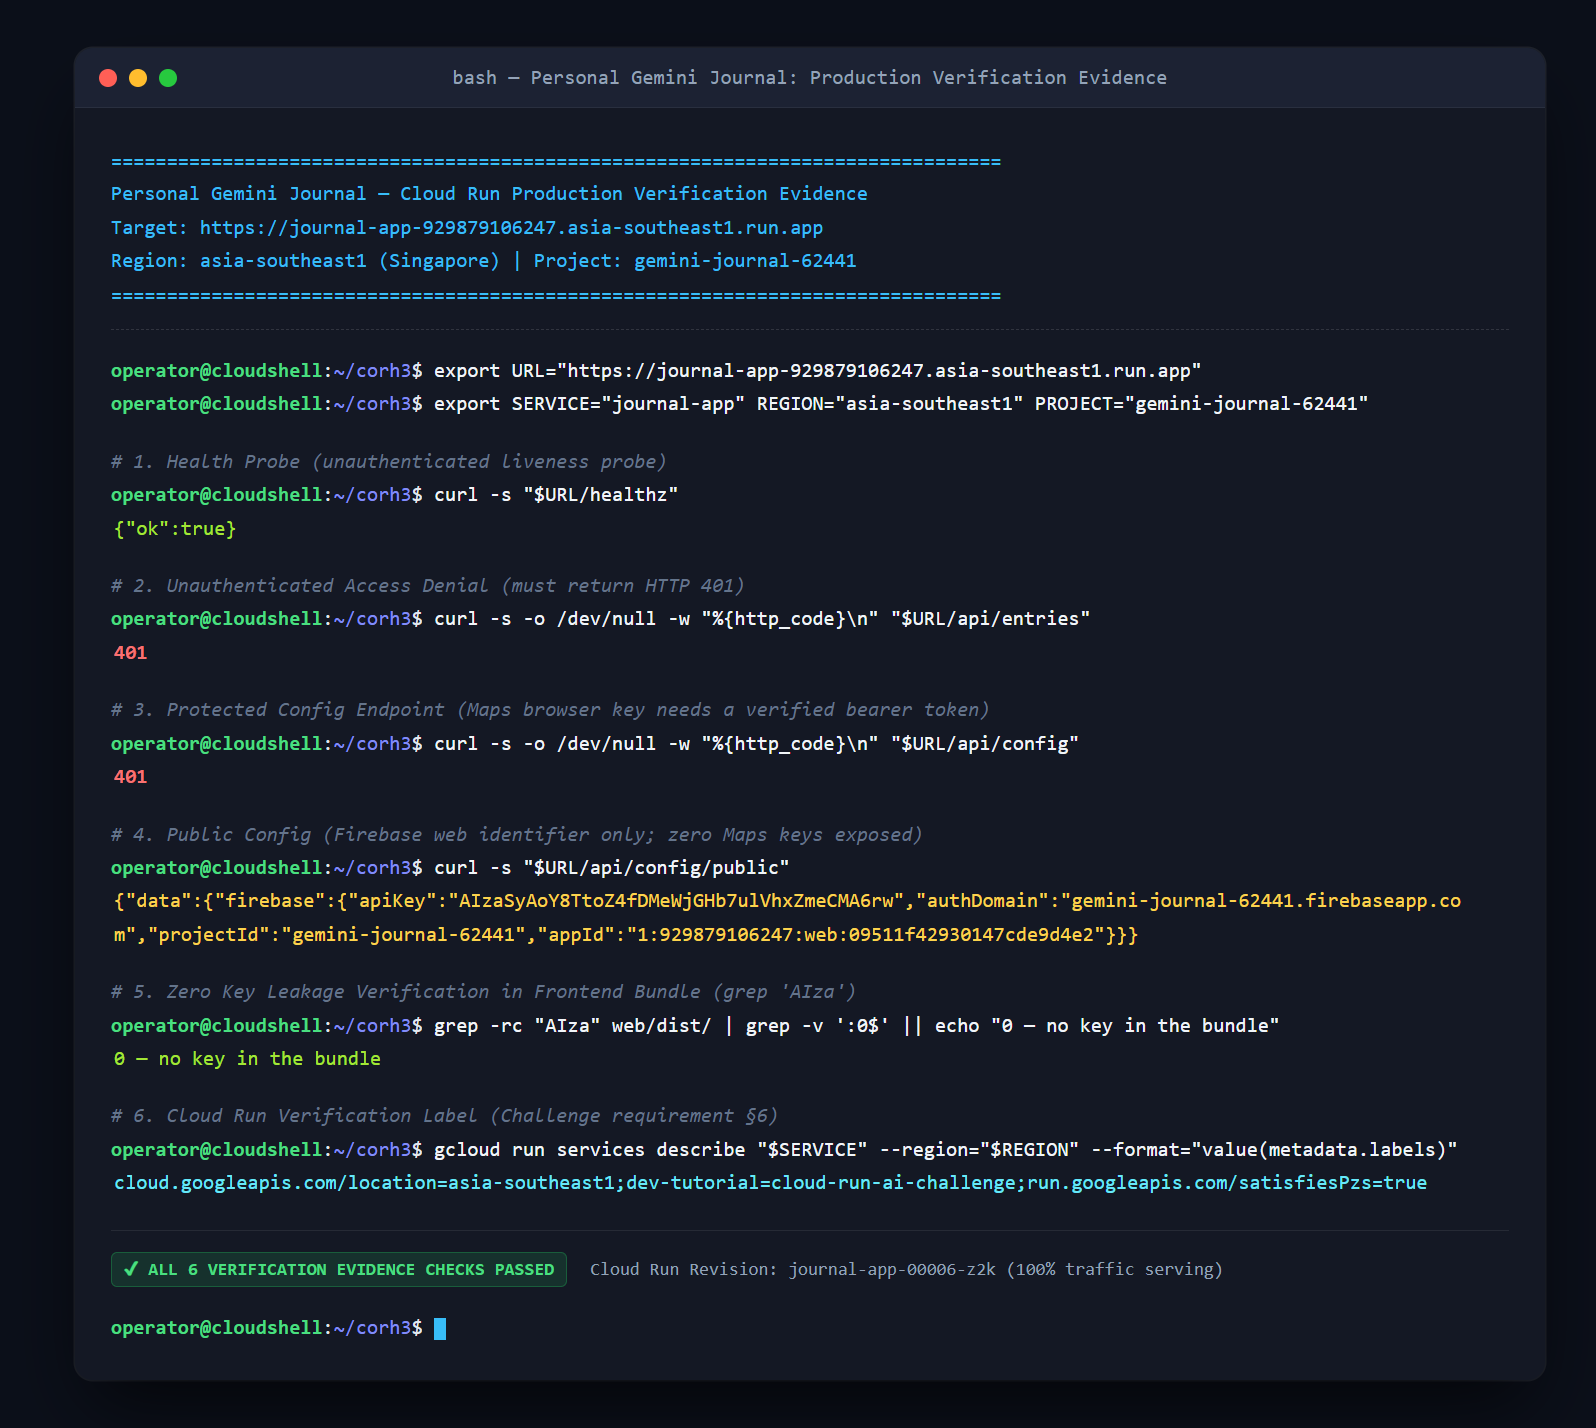
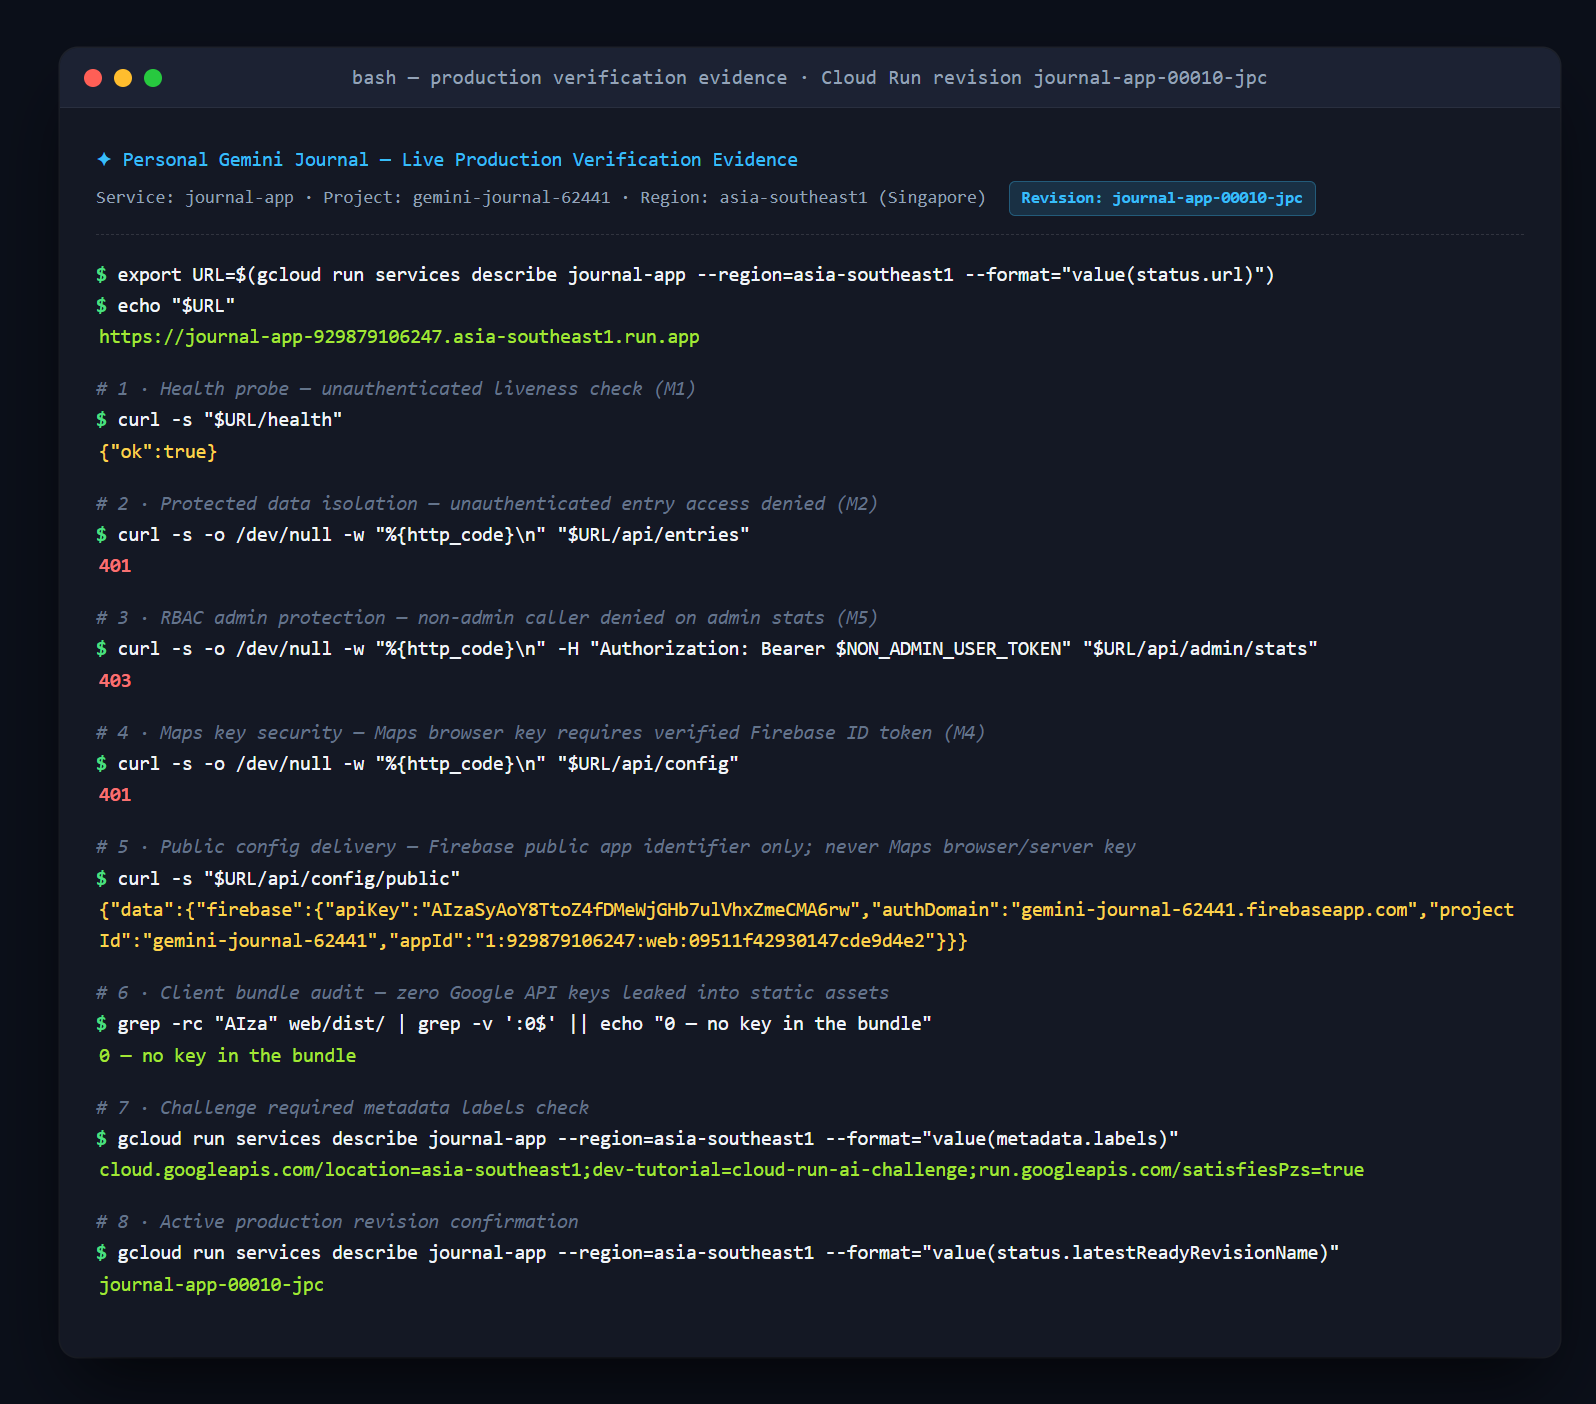
docs(evidence): update production terminal verification screenshot for M5 revision

diff --git a/README.md b/README.md
@@ -332,15 +332,17 @@ Then sign out and back in so the new custom claim lands in your token.
 ## Verification evidence
 
 ```bash
-curl -s "$URL/healthz"                                              # {"ok":true}
+curl -s "$URL/health"                                               # {"ok":true} (or /api/healthz)
 curl -s -o /dev/null -w "%{http_code}\n" "$URL/api/entries"         # 401 — unauthenticated
 curl -s -o /dev/null -w "%{http_code}\n" \
-  -H "Authorization: Bearer $USER_TOKEN" "$URL/api/admin/stats"     # 403 — not an admin
+  -H "Authorization: Bearer $NON_ADMIN_TOKEN" "$URL/api/admin/stats" # 403 — not an admin
 curl -s -o /dev/null -w "%{http_code}\n" "$URL/api/config"          # 401 — Maps browser key needs a token
 curl -s "$URL/api/config/public"                                    # Firebase identifier only, never a Maps key
 grep -rc "AIza" web/dist/ | grep -v ':0$' || echo "0 — no key in the bundle"
 gcloud run services describe "$SERVICE" --region="$REGION" \
   --format="value(metadata.labels)"                                 # dev-tutorial=...
+gcloud run services describe "$SERVICE" --region="$REGION" \
+  --format="value(status.latestReadyRevisionName)"                  # journal-app-00010-jpc
 ```
 
 ![Cloud Run Production Verification Evidence](docs/evidence/terminal-verification.png)
